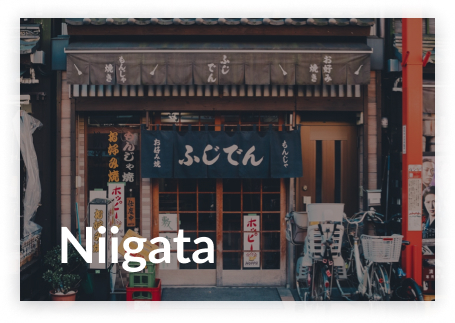
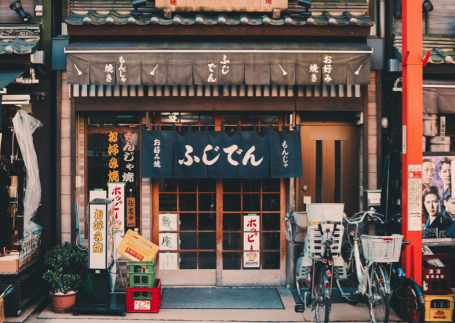
Изменил картинки реализовал заголовок в разделе places

diff --git a/index.html b/index.html
@@ -68,7 +68,7 @@
                         <h3 class="benefits__card-title">Welcome to Odigo!</h3>
                         <p class="benefits__card-text">Jump off balcony, onto stranger's head. Chase ball of string hide when guests come over.</p>
                         <a href="#!" class="benefits__card-more">LEARN MORE 
-                            <img src="./img/svg/arrow-to-right.svg" alt="arrow to right" class="benefits_card-more-arrow">
+                            <img src="./img/svg/arrow-to-right.svg" alt="arrow to right" class="more-arrow-to-right">
                         </a>
                     </div>
 
@@ -77,7 +77,7 @@
                         <h3 class="benefits__card-title">Your Personal Japan Guide</h3>
                         <p class="benefits__card-text">Jump off balcony, onto stranger's head. Chase ball of string hide when guests come over.</p>
                         <a href="#!" class="benefits__card-more">LEARN MORE 
-                            <img src="./img/svg/arrow-to-right.svg" alt="arrow to right" class="benefits_card-more-arrow">
+                            <img src="./img/svg/arrow-to-right.svg" alt="arrow to right" class="more-arrow-to-right">
                         </a>
                     </div>
 
@@ -86,7 +86,7 @@
                         <h3 class="benefits__card-title">Promoting Local Businesses</h3>
                         <p class="benefits__card-text">Jump off balcony, onto stranger's head. Chase ball of string hide when guests come over.</p>
                         <a href="#!" class="benefits__card-more">LEARN MORE 
-                            <img src="./img/svg/arrow-to-right.svg" alt="arrow to right" class="benefits_card-more-arrow">
+                            <img src="./img/svg/arrow-to-right.svg" alt="arrow to right" class="more-arrow-to-right">
                         </a>
                     </div>
                 </div>
@@ -94,16 +94,18 @@
         </section>
         <section class="places">
             <!---PLACES  START-->
-            <div class="places__wrap">
+            <div class="places_wrapper">
                 <div class="places__caption">
-                    <h2 class="place__title section-title">Get inspired for your next trip</h2>
-                    <img src="./img/mount-fuji.jpg" alt="" class="inspire__pic">
-                    <img src="./img/kyoto.jpg" alt="" class="inspire__pic">
-                    <img src="./img/tokyo.jpg" alt="" class="inspire__pic">
-                    <img src="./img/niigata.jpg" alt="" class="inspire__pic">
-                    <img src="./img/sapporo.jpg" alt="" class="inspire__pic">
+                    <h2 class="places__title">Get inspired for your next trip</h2>
+                    <a href="#!" class="places__view-all">
+                        VIEW ALL <img src="./img/svg/arrow-to-right.svg" alt="arrow to right" class="more-arrow-to-right">
+                    </a>
+                </div>
+                <div class="places__cards">
+                    <img src="./img/mount-fuji.jpg" alt="mount-fuji" class="places__card-pic">
                 </div>
             </div>
+        </section>
         </section>
     </main>
 </body>

diff --git a/css/style.css b/css/style.css
@@ -57,6 +57,10 @@ body {
     margin: 0 auto;
 }
 
+.more-arrow-to-right {
+    padding-left: 26px;
+}
+
 
 /* HEADER STYLE START */
 
@@ -179,7 +183,6 @@ body {
 .benefits__wrapper {
     background-color: white;
     max-width: 1262px;
-    max-height: 655px;
     margin: 0 auto;
     box-shadow: 0px 2px 20px 0px #15182429;
     position: relative;
@@ -233,15 +236,56 @@ body {
     text-decoration: none;
 }
 
-.benefits_card-more-arrow {
-    padding-left: 26px;
-}
-
 
 /* BENEFITS STYLE END */
 
 
 /* PLACES STYLE START */
+
+.places_wrapper {
+    max-width: 1262px;
+    margin: 0 auto;
+}
+
+.places__caption {
+    display: flex;
+    flex-wrap: wrap;
+    align-items: center;
+    justify-content: space-between;
+}
+
+.places__title {
+    font-weight: 500;
+    font-size: 35px;
+    line-height: 42px;
+    position: relative;
+    padding-bottom: 7px;
+}
+
+.places__title::before {
+    display: block;
+    content: "";
+    width: 253px;
+    height: 3px;
+    background-color: #006DFE;
+    position: absolute;
+    bottom: 0;
+    left: 0;
+}
+
+.places__view-all {
+    color: #006DFE;
+    text-decoration: none;
+    color: #006DFE;
+    padding-left: 10px;
+    text-align: center;
+}
+
+.places__cards {
+    display: grid;
+    grid-template-columns: repeat(6, 1fr);
+    grid-gap: 10px;
+}
 
 
 /* PLACES STYLE END */
